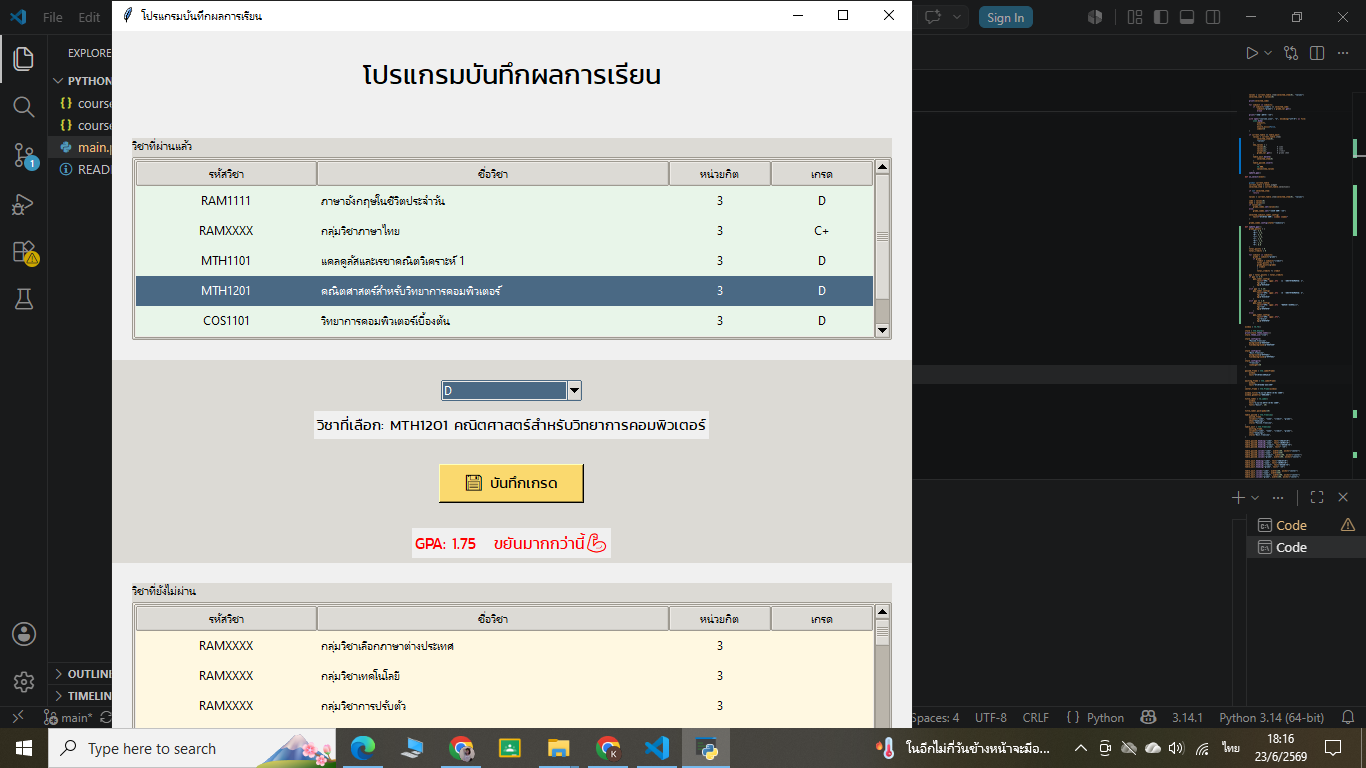
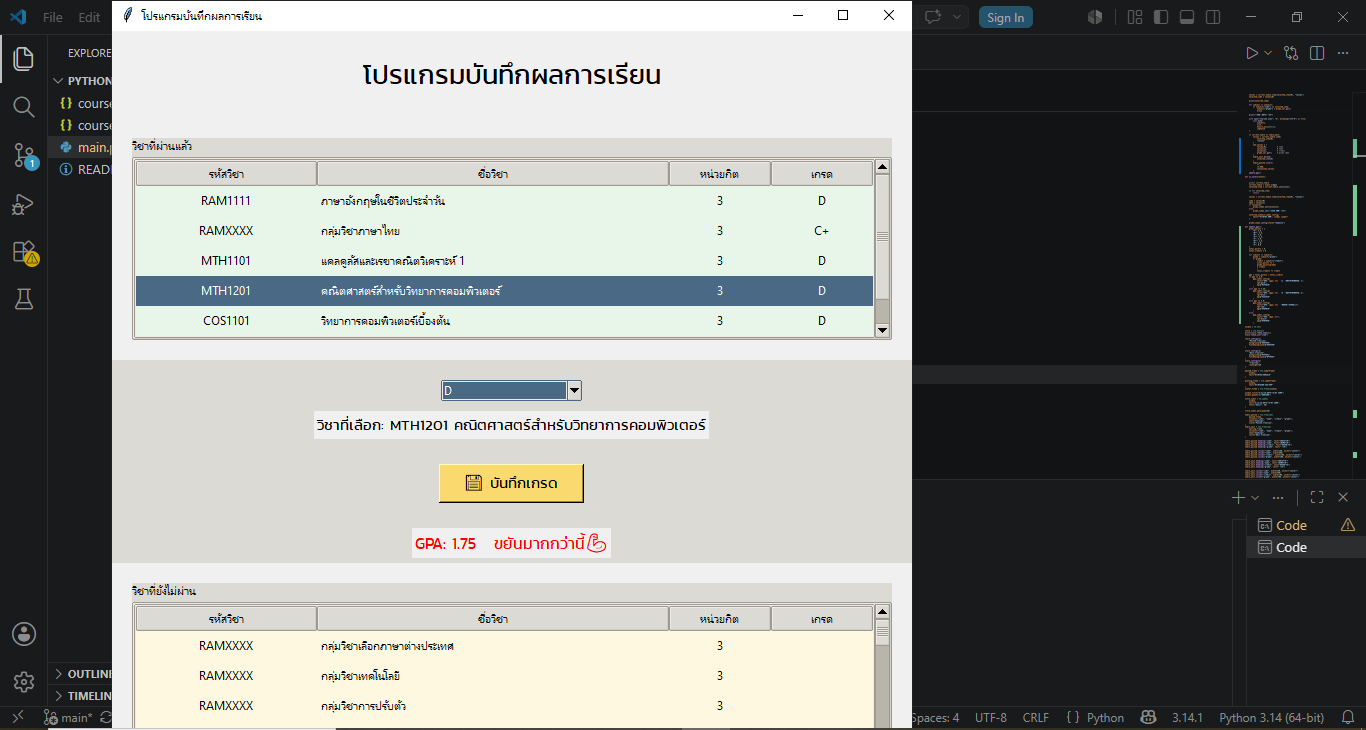
center_frame split to info_frame and control_frame

diff --git a/main.py b/main.py
@@ -114,28 +114,24 @@ def update_gpa():
 
     gpa = total_points / total_credits
     if gpa >= 3.5:
+        info_frame.config(bg="#f7edc4")
         gpa_label.config(
-            text=f"GPA: {gpa:.2f}   👑 เกียตินิยมอันดับ 1",
-            fg="gold",
-            bg="#3F3D3D"
+            text=f" GPA: {gpa:.2f}",
         )
     elif gpa >= 3.25:
+        info_frame.config(bg="#c8f2f5")
         gpa_label.config(
-            text=f"GPA: {gpa:.2f}   🥈 เกียตินิยมอันดับ 2",
-            fg="blue",
-            bg="#CAC8C8"
+            text=f" GPA: {gpa:.2f}",
         )
     elif gpa <= 2.0:
+        info_frame.config(bg="#f7c4c4")
         gpa_label.config(
-            text=f"GPA: {gpa:.2f}   ขยันมากกว่านี้💪",
-            fg="red",
-            bg="#F0F0F0"
+            text=f" GPA: {gpa:.2f}",
         )
     else:
+        info_frame.config(bg="#ffffffd3")
         gpa_label.config(
-            text=f"GPA: {gpa:.2f}",
-            fg="black",
-            bg="#F0F0F0"
+            text=f" GPA: {gpa:.2f}",
         )
 
 window = tk.Tk()
@@ -146,13 +142,13 @@ style.theme_use("clam")
 
 style.configure(
     "Passed.Treeview",
-    background="#CBFACF",
+    background="#DFEBFA",
     fieldbackground="#E8F5E9"
 )
 
 style.configure(
     "Wait.Treeview",
-    background="#F7BFB7",
+    background="#FDEBE8",
     fieldbackground="#FFF8E1"
 )
 style.configure(
@@ -161,27 +157,55 @@ style.configure(
 )
 style.configure(
     "Passed.TLabelframe.Label",
-    foreground="green",
+    foreground="#435570",
     font=("Kanit", 11, "bold")
 )
 style.configure(
     "Waiting.TLabelframe.Label",
-    foreground="#e45656",
+    foreground="#d4c9c96f",
     font=("Kanit", 11, "bold")
 )
 
 passed_frame = ttk.LabelFrame(
     window,
-    text="วิชาที่ผ่านแล้ว",
+    text="      วิชาที่ผ่านแล้ว",
     style="Passed.TLabelframe"
 )
 
 waiting_frame = ttk.LabelFrame(
     window,
-    text="วิชาที่ยังไม่ผ่าน",
+    text="      วิชาที่ยังไม่ผ่าน",
     style="Waiting.TLabelframe"
 )
-center_frame = ttk.Frame(window)
+center_frame = tk.Frame(window,padx=20,pady=1)
+info_frame = tk.Frame(
+    center_frame,
+    bg="white",
+    bd=3,
+    relief="ridge",
+    padx=15,
+    pady=15
+)
+control_frame = tk.Frame(
+    center_frame,
+    bg="white",
+    bd=1,
+    relief="groove")
+
+info_frame.pack(
+    side="left",
+    fill="x",
+    expand=True,
+    padx=10,
+    pady=10
+)
+
+control_frame.pack(
+    side="right",
+    expand=True,
+    fill="x",
+    padx=20
+)
 
 window.title("โปรแกรมบันทึกผลการเรียน")
 window.geometry("800x800")
@@ -259,7 +283,7 @@ for subject in subjects:
 grade_var = tk.StringVar()
 
 grade_combo = ttk.Combobox(
-    center_frame,
+    control_frame,
     textvariable=grade_var,
     values=["", "A", "B+", "B", "C+", "C", "D+", "D", "F"],
     state="readonly"
@@ -268,7 +292,7 @@ grade_combo = ttk.Combobox(
 grade_combo.set("กรุณาคลิกเลือกวิชา")
 
 update_button = tk.Button(
-    center_frame,
+    control_frame,
     text="💾 บันทึกเกรด",
     font=("Kanit", 11, "bold"),
     fg="white",
@@ -278,7 +302,7 @@ update_button = tk.Button(
 )
 
 selected_subject_label = tk.Label(
-    center_frame,
+    control_frame,
     text="ยังไม่ได้เลือกวิชา",
     font=("Kanit", 11)
 )
@@ -310,12 +334,24 @@ table_wait.configure(
 )
 
 gpa_label = tk.Label(
-        center_frame,
-        text="GPA: 0.00",
-        font=("Kanit", 12),
-        bg="#F0F0F0"
+        info_frame,
+        text="  GPA: 0.00",
+        font=("Kanit", 14),
+        bg=info_frame["bg"]
     )
+credit_label = tk.Label(
+    info_frame,
+    text="  หน่วยกิตที่ผ่าน: 0",
+    font=("Kanit", 11),
+    bg=info_frame["bg"]
+)
 
+remain_label = tk.Label(
+    info_frame,
+    text="  หน่วยกิตคงเหลือ: 127",
+    font=("Kanit", 11),
+    bg=info_frame["bg"]
+)
 
 table_passed.bind("<<TreeviewSelect>>", on_select)
 table_wait.bind("<<TreeviewSelect>>", on_select)
@@ -351,7 +387,9 @@ selected_subject_label.pack(pady=5)
 
 update_button.pack(pady=20)
 
-gpa_label.pack(pady=5)
+gpa_label.pack(anchor="w")
+credit_label.pack(anchor="w")
+remain_label.pack(anchor="w")
 update_gpa()
 
 window.mainloop()